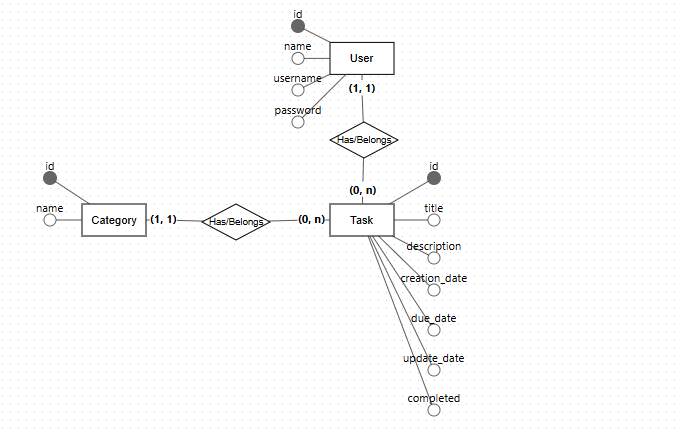
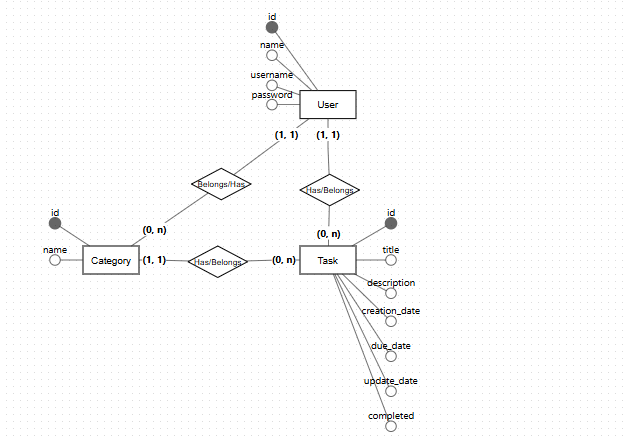
Task #6: models updated and user and category routes implemented

Changed region(s): [[0.061, 0.0, 0.7014, 0.9954], [0.3965, 0.3318, 0.427, 0.3619]]

diff --git a/task_organizer/backend/src/routes/category_routes.py b/task_organizer/backend/src/routes/category_routes.py
@@ -1,0 +1,182 @@
+from flask import Blueprint, request, jsonify
+from pydantic import ValidationError
+from sqlalchemy import select
+from sqlalchemy.exc import SQLAlchemyError
+from src import db_session
+from src.models.category import Category
+from src.schemas.category_schemas import (
+    CategoryCreateRequest, CategoryResponse, CategoryUpdateRequest
+)
+
+
+category_bp = Blueprint('category_bp', __name__, url_prefix='/categories')
+
+
+@category_bp.route('/', methods=['GET'])
+def get_categories():
+    try:
+        categories = db_session.scalars(select(Category)).all()
+
+        result = [
+            CategoryResponse.model_validate(category)
+            for category in categories
+        ]
+
+        return jsonify(result), 200
+
+    except SQLAlchemyError as e:
+        db_session.rollback()
+        return jsonify({
+            "error": "Error during database access.",
+            "details": str(e)
+        }), 500
+
+    except Exception as e:
+        db_session.rollback()
+        return jsonify({
+            "error": "Internal server error",
+            "details": str(e)
+        }), 500
+
+
+@category_bp.route('/<int:category_id>', methods=['GET'])
+def get_category_by_id(category_id):
+    try:
+        category = db_session.scalars(
+            select(Category).filter_by(id=category_id)).first()
+
+        if not category:
+            return jsonify({"error": "Category not found."}), 404
+
+        result = CategoryResponse.model_validate(category)
+
+        return jsonify(result), 200
+
+    except SQLAlchemyError as e:
+        db_session.rollback()
+        return jsonify({
+            "error": "Error during database access.",
+            "details": str(e)
+        }), 500
+
+    except Exception as e:
+        db_session.rollback()
+        return jsonify({
+            "error": "Internal server error",
+            "details": str(e)
+        }), 500
+
+
+@category_bp.route('/', methods=['POST'])
+def create_category():
+    try:
+        payload = request.get_json() or {}
+        category_dto = CategoryCreateRequest.model_validate(payload)
+        category_model = Category(**category_dto.model_dump())
+
+        db_session.add(category_model)
+        db_session.commit()
+        db_session.refresh(category_model)
+
+        return jsonify({
+            "message": "Category created successfully!",
+            "category_id": category_model.id
+        }), 201
+
+    except ValidationError as e:
+        return jsonify({
+            "error": "Validation error",
+            "details": e.errors()
+        }), 400
+
+    except SQLAlchemyError as e:
+        db_session.rollback()
+        return jsonify({
+            "error": "Error during database access.",
+            "details": str(e)
+        }), 500
+
+    except Exception as e:
+        db_session.rollback()
+        return jsonify({
+            "error": "Internal server error",
+            "details": str(e)
+        }), 500
+
+
+@category_bp.route('/<int:category_id>', methods=['PATCH'])
+def update_category(category_id):
+    try:
+        category_model = db_session.scalars(
+            select(Category).filter_by(id=category_id)
+        ).first()
+
+        if not category_model:
+            return jsonify({"error": "Category not found."}), 404
+
+        payload = request.get_json() or {}
+        category_dto = CategoryUpdateRequest.model_validate(payload)
+
+        update_data = category_dto.model_dump(exclude_unset=True)
+
+        for key, value in update_data.items():
+            setattr(category_model, key, value)
+
+        db_session.commit()
+        db_session.refresh(category_model)
+
+        result = CategoryResponse.model_validate(
+            category_model).model_dump(mode='json')
+
+        return jsonify({
+            "message": "Category updated successfully!",
+            "category": result
+        }), 200
+
+    except ValidationError as e:
+        return jsonify({
+            "error": "Validation error",
+            "details": e.errors()
+        }), 400
+
+    except SQLAlchemyError as e:
+        db_session.rollback()
+        return jsonify({
+            "error": "Error during database access.",
+            "details": str(e)
+        }), 500
+
+    except Exception as e:
+        db_session.rollback()
+        return jsonify({
+            "error": "Internal server error",
+            "details": str(e)
+        }), 500
+
+
+@category_bp.route('/<int:category_id>', methods=['PATCH'])
+def delete_category(category_id):
+    try:
+        category = db_session.scalars(
+            select(Category).filter_by(id=category_id)).first()
+
+        if not category:
+            return jsonify({"error": "Category not found."}), 404
+
+        db_session.delete(category)
+        db_session.commit()
+        return jsonify({"message": "Category deleted successfully!"}), 200
+
+    except SQLAlchemyError as e:
+        db_session.rollback()
+        return jsonify({
+            "error": "Error during database access.",
+            "details": str(e)
+        }), 500
+
+    except Exception as e:
+        db_session.rollback()
+        return jsonify({
+            "error": "Internal server error",
+            "details": str(e)
+        }), 500

diff --git a/task_organizer/backend/src/routes/user_routes.py b/task_organizer/backend/src/routes/user_routes.py
@@ -1,9 +1,10 @@
 from flask import Blueprint, request, jsonify
+from pydantic import ValidationError
 from sqlalchemy import select
 from sqlalchemy.exc import SQLAlchemyError
 from src import db_session
-from task_organizer.backend.src.models.user import User
-from task_organizer.backend.src.schemas.user_schemas import LoginRequest
+from src.models.user import User
+from src.schemas.user_schemas import LoginRequest, UserCreateRequest
 
 
 user_bp = Blueprint("user_bp", __name__)
@@ -18,13 +19,10 @@ def login():
         user_model = db_session.scalar(
             select(User).filter_by(username=login_dto.username))
 
-        if not user_model:
-            return jsonify({"error": "User not found."}), 404
+        if not user_model or not user_model.verify_password(login_dto.password):
+            return jsonify({"error": "Invalid username or password."}), 401
 
-        if login_dto.password == user_model.password:
-            return jsonify({'message': "Login successful!"}), 200
-
-        return jsonify({"error": "Invalid credencials."}), 401
+        return jsonify({'message': "Login successful!"}), 200
 
     except SQLAlchemyError as e:
         db_session.rollback()
@@ -34,6 +32,48 @@ def login():
         }), 500
 
     except Exception as e:
+        db_session.rollback()
+        return jsonify({
+            "error": "Internal server error",
+            "details": str(e)
+        }), 500
+
+
+@user_bp.route('/users', methods=['POST'])
+def create_user():
+    try:
+        payload = request.get_json() or {}
+        user_dto = UserCreateRequest.model_validate(payload)
+        user_model = User(
+            name=user_dto.name,
+            username=user_dto.username,
+            password=user_dto.password
+        )
+
+        db_session.add(user_model)
+        db_session.commit()
+        db_session.refresh(user_model)
+
+        return jsonify({
+            "message": "User created successfully!",
+            "user_id": user_model.id
+        }), 201
+
+    except ValidationError as e:
+        return jsonify({
+            "error": "Validation error",
+            "details": e.errors()
+        }), 400
+
+    except SQLAlchemyError as e:
+        db_session.rollback()
+        return jsonify({
+            "error": "Error during database access.",
+            "details": str(e)
+        }), 500
+
+    except Exception as e:
+        db_session.rollback()
         return jsonify({
             "error": "Internal server error",
             "details": str(e)

diff --git a/task_organizer/backend/src/routes/task_routes.py b/task_organizer/backend/src/routes/task_routes.py
@@ -3,8 +3,8 @@ from pydantic import ValidationError
 from sqlalchemy import select
 from sqlalchemy.exc import SQLAlchemyError
 from src import db_session
-from task_organizer.backend.src.models.task import Task
-from task_organizer.backend.src.schemas.task_schemas import (
+from src.models.task import Task
+from src.schemas.task_schemas import (
     TaskCreateRequest, TaskResponse, TaskUpdateRequest
 )
 
@@ -32,6 +32,7 @@ def get_tasks():
         }), 500
 
     except Exception as e:
+        db_session.rollback()
         return jsonify({
             "error": "Internal server error",
             "details": str(e)
@@ -61,6 +62,7 @@ def get_task_by_id(task_id):
         }), 500
 
     except Exception as e:
+        db_session.rollback()
         return jsonify({
             "error": "Internal server error",
             "details": str(e)
@@ -97,6 +99,7 @@ def create_task():
         }), 500
 
     except Exception as e:
+        db_session.rollback()
         return jsonify({
             "error": "Internal server error",
             "details": str(e)
@@ -123,12 +126,9 @@ def update_task(task_id):
         db_session.commit()
         db_session.refresh(task_model)
 
-        result = TaskResponse.model_validate(
-            task_model).model_dump(mode='json')
-
         return jsonify({
             "message": "Task updated successfully!",
-            "task": result
+            "task": task_model
         }), 200
 
     except ValidationError as e:
@@ -145,6 +145,7 @@ def update_task(task_id):
         }), 500
 
     except Exception as e:
+        db_session.rollback()
         return jsonify({
             "error": "Internal server error",
             "details": str(e)
@@ -174,6 +175,7 @@ def delete_task(task_id):
         }), 500
 
     except Exception as e:
+        db_session.rollback()
         return jsonify({
             "error": "Internal server error",
             "details": str(e)

diff --git a/task_organizer/backend/src/models/category.py b/task_organizer/backend/src/models/category.py
@@ -1,5 +1,5 @@
 from .core import BaseModel
-from sqlalchemy import String
+from sqlalchemy import String, ForeignKey
 from sqlalchemy.orm import Mapped, mapped_column, relationship
 
 
@@ -12,6 +12,10 @@ class Category(BaseModel):
     tasks: Mapped[list["Task"]] = relationship(
         back_populates="category",
     )
+
+    user_id: Mapped[int] = mapped_column(
+        ForeignKey('users.id'), nullable=False)
+    user: Mapped["User"] = relationship(back_populates="categories")
 
     def __str__(self) -> str:
         return f"Category -> id: {self.id}, name: {self.name}"

diff --git a/task_organizer/backend/src/schemas/user_schemas.py b/task_organizer/backend/src/schemas/user_schemas.py
@@ -9,6 +9,15 @@ class LoginRequest(BaseModel):
     password: str
 
 
+class UserCreateRequest(BaseModel):
+    """
+    Class to represent a user creation request
+    """
+    name: str
+    username: str
+    password: str
+
+
 class UserResponse(BaseModel):
     """
     Class to represent a user response

diff --git a/task_organizer/backend/src/models/user.py b/task_organizer/backend/src/models/user.py
@@ -25,6 +25,10 @@ class User(BaseModel):
         back_populates="user",
         cascade="all, delete-orphan"
     )
+    categories: Mapped[list["Category"]] = relationship(
+        back_populates="user",
+        cascade="all, delete-orphan"
+    )
 
     @hybrid_property
     def password(self) -> str:
